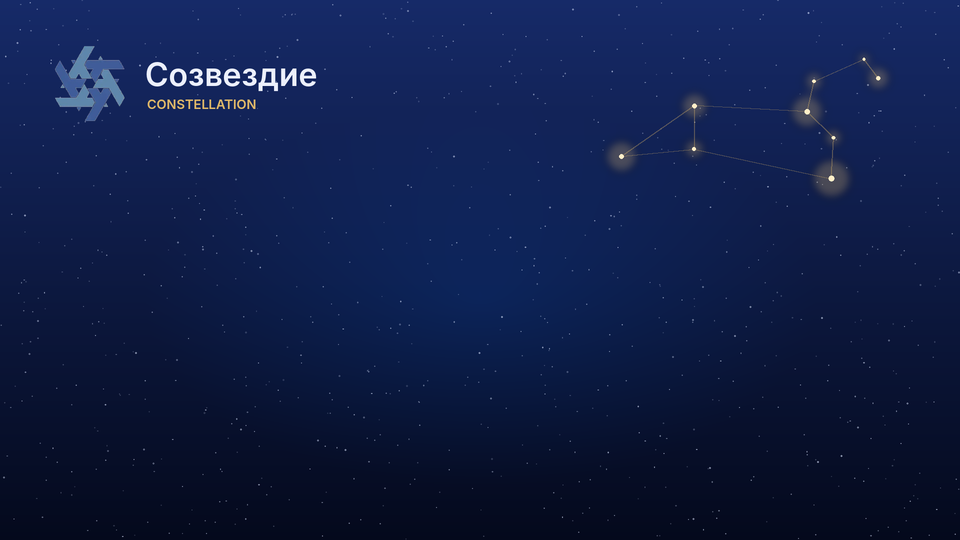
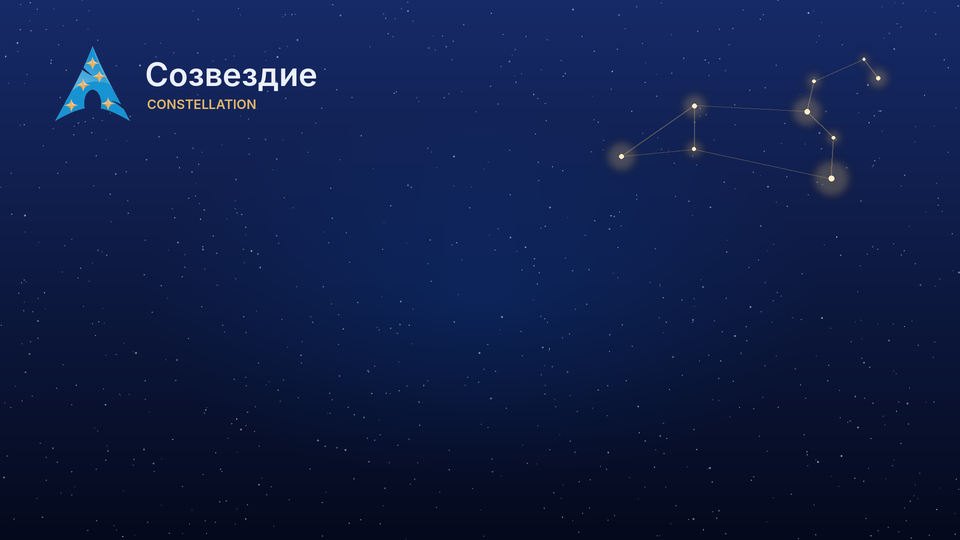
Branding: the new Constellation mark, the Arch arrow drawn in gold stars
- branding/constellation-logo.png replaces the old mark; the boot menu is regenerated.
- The login screen shows it beside the wordmark (/usr/share/pixmaps/constellation.png).
- fastfetch draws the ASCII version in its six colours (blues and gold) for new users.

Claude-Session: https://claude.ai/code/session_01PqjNt9BxXLyiVpyCnph3ko

Changed region(s): [[0.0625, 0.0889, 0.1562, 0.237]]

diff --git a/pkgs/constellation-desktop/greeter/Greeter.qml b/pkgs/constellation-desktop/greeter/Greeter.qml
@@ -226,8 +226,19 @@ Item {
         height: 48 * greeter.u
         opacity: 0
 
-        Column {
-            anchors { left: parent.left; verticalCenter: parent.verticalCenter }
+        Row {
+          anchors { left: parent.left; verticalCenter: parent.verticalCenter }
+          spacing: 12 * greeter.u
+          Image {
+            anchors.verticalCenter: parent.verticalCenter
+            source: "file:///usr/share/pixmaps/constellation.png"
+            width: 44 * greeter.u; height: width
+            sourceSize { width: 128; height: 128 }
+            fillMode: Image.PreserveAspectFit
+            smooth: true; mipmap: true
+          }
+          Column {
+            anchors.verticalCenter: parent.verticalCenter
             spacing: 2 * greeter.u
             Text {
                 text: "Созвездие"
@@ -239,6 +250,7 @@ Item {
                 color: greeter.gold
                 font { family: greeter.sans; pixelSize: 10 * greeter.u; weight: Font.DemiBold; letterSpacing: 4 * greeter.u }
             }
+          }
         }
 
         Row {

diff --git a/tests/test_greeter.py b/tests/test_greeter.py
@@ -43,6 +43,20 @@ class GreeterWrapper(unittest.TestCase):
         self.assertIn('--cmd niri-session', log)
 
 
+class Branding(unittest.TestCase):
+    def test_the_packaged_mark_is_the_branding_mark(self):
+        self.assertEqual((ROOT / 'branding/constellation-logo.png').read_bytes(),
+                         (ROOT / 'pkgs/constellation-desktop/constellation-logo.png').read_bytes())
+
+    def test_fastfetch_logo_uses_fastfetch_colour_codes(self):
+        art = (ROOT / 'pkgs/constellation-desktop/fastfetch/constellation.txt').read_text()
+        self.assertNotIn('${c', art)
+        self.assertNotRegex(art, r'(?<!\$)\$(?![1-6$])')   # every other $ is escaped as $$
+        import json, re
+        cfg = json.loads(re.sub(r'^//.*$', '', (ROOT / 'pkgs/constellation-desktop/fastfetch/config.jsonc').read_text(), flags=re.M))
+        self.assertEqual(sorted(cfg['logo']['color']), ['1', '2', '3', '4', '5', '6'])
+
+
 class GreeterFiles(unittest.TestCase):
     def test_niri_runs_the_greeter_and_quits_with_it(self):
         kdl = (GREETER / 'niri.kdl').read_text()

diff --git a/branding/make-grub-theme.py b/branding/make-grub-theme.py
@@ -80,16 +80,11 @@ def background() -> Image.Image:
 
 
 def logo(size: int) -> Image.Image:
-    """The supplied mark, with its white background made transparent."""
-    src = Image.open(HERE / 'constellation-logo.webp').convert('RGB')
-    rgba = Image.new('RGBA', src.size)
-    for (x, y), (r, g, b) in zip(((x, y) for y in range(src.height) for x in range(src.width)), src.get_flattened_data()):
-        white = min(r, g, b)
-        alpha = 0 if white > 238 else 255 if white < 200 else round((238 - white) / 38 * 255)
-        rgba.putpixel((x, y), (r, g, b, alpha))
-    rgba = rgba.crop(rgba.getchannel('A').getbbox())
-    rgba.thumbnail((size, size), Image.LANCZOS)
-    return rgba
+    """The Constellation mark: the Arch arrow drawn as a constellation of gold stars."""
+    mark = Image.open(HERE / 'constellation-logo.png').convert('RGBA')
+    mark = mark.crop(mark.getchannel('A').getbbox())
+    mark.thumbnail((size, size), Image.LANCZOS)
+    return mark
 
 
 def selection():
